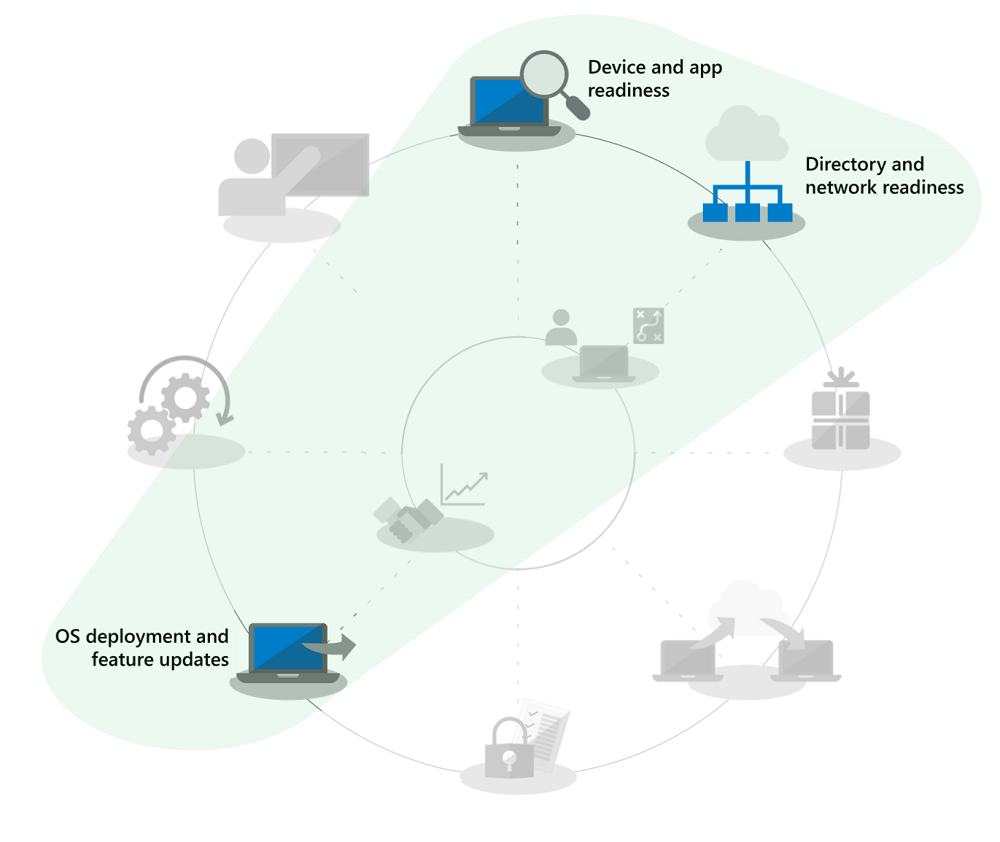
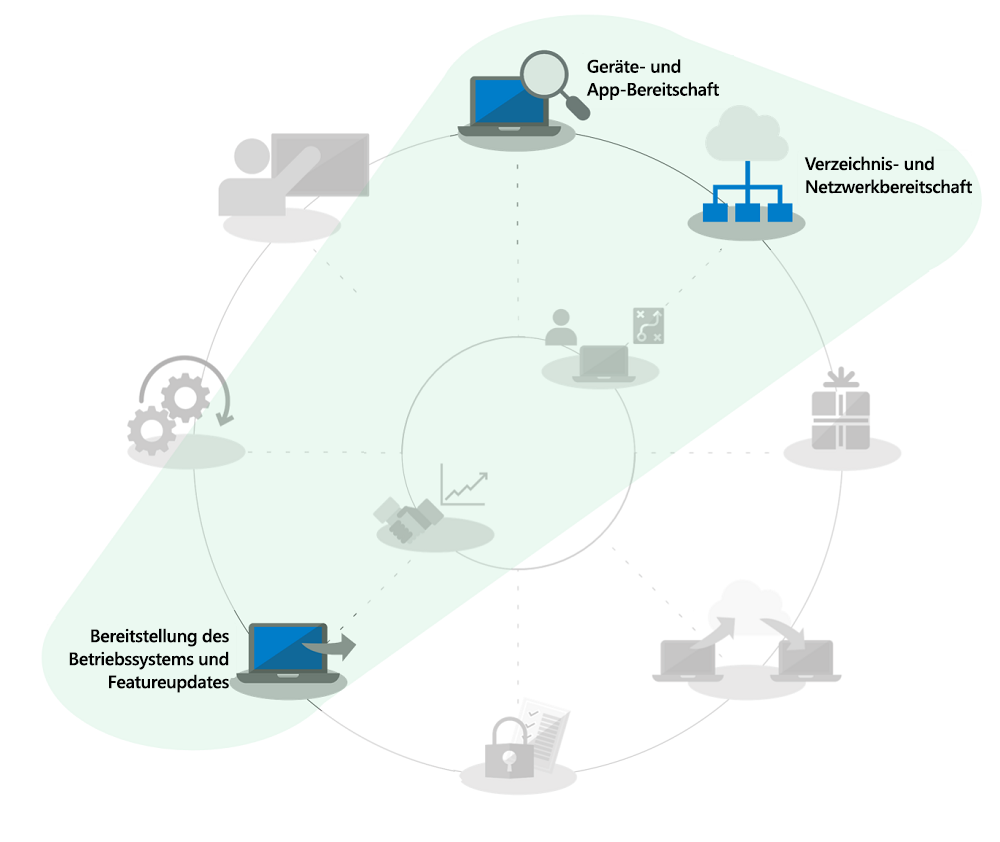
commit translated contents

Changed region(s): [[0.062, 0.7411, 0.248, 0.8337], [0.806, 0.1853, 0.992, 0.247], [0.589, 0.0618, 0.713, 0.1235]]

diff --git a/microsoft-365/enterprise/step-1-device-and-app-readiness.md b/microsoft-365/enterprise/step-1-device-and-app-readiness.md
@@ -13,12 +13,12 @@ ms.collection:
 - Strat_O365_Enterprise
 ms.custom: ''
 description: Informationen dazu, wie Sie die Geräte- und App-Bereitschaft in der Umgebung bewerten.
-ms.openlocfilehash: f45b4c4b38cd2108c706eb6465e9b5ba241e252f
-ms.sourcegitcommit: 7e806db3d44ec223754efe1e9613b2c7117c4788
+ms.openlocfilehash: eb619cf807c2bd4ad3644dbb26e72b62e30320c7
+ms.sourcegitcommit: 03828f954b9dddb265f867fa508178ec0d4a6aeb
 ms.translationtype: HT
 ms.contentlocale: de-DE
-ms.lasthandoff: 06/10/2019
-ms.locfileid: "34814636"
+ms.lasthandoff: 07/08/2019
+ms.locfileid: "35584551"
 ---
 # <a name="step-1-device-and-app-readiness"></a>Schritt 1: Geräte- und App-Bereitschaft
 
@@ -41,7 +41,7 @@ In der Vergangenheit war die Anwendungs- und Hardwarekompatibilität bei der Akt
 
 Nichtsdestotrotz ist das Überprüfen der Anwendungs- und Hardwarekompatibilität in Abhängigkeit von der Größe und dem Alter Ihrer Organisation mit großer Wahrscheinlichkeit nach wie vor ein wichtiger erster Schritt in unserem empfohlenen Bereitstellungsprozess, der aus acht Phasen besteht.
 
-In diesem Artikel führen wir Sie durch diese erste Phase – die Geräte- und App-Bereitschaft – mithilfe der Microsoft-Tools zur Bewertung der Bereitschaft, einschließlich des neuen Upgradebereitschaft-Tools von Windows Analytics, bei dem es sich um eine intelligente, cloudbasierte Lösung handelt, die mit Ihrer Windows-Lizenz verfügbar ist.
+In diesem Artikel führen wir Sie durch diese erste Phase – die Geräte- und App-Bereitschaft – mithilfe der Microsoft-Tools zur Bewertung der Bereitschaft, einschließlich des neuen Tools Upgradebereitschaft von Desktop Analytics, bei dem es sich um eine intelligente, cloudbasierte Lösung handelt, die mit Ihrer Windows-Lizenz verfügbar ist.
 
 ## <a name="windows-10-compatibility-scan"></a>Windows 10-Kompatibilitätsüberprüfung
 
@@ -53,13 +53,13 @@ Ein Beispiel für eine ScanOnly-Befehlszeile, die die Kompatibilitätsüberprüf
 
 Weitere Informationen zu ScanOnly und anderen Windows-Setupbefehlsoptionen finden Sie unter [Windows Setup-Befehlszeilenoptionen](https://aka.ms/setupswitches).
 
-## <a name="recommended-tool-windows-analytics-upgrade-readiness"></a>Empfohlenes Tool: Upgradebereitschaft von Windows Analytics
+## <a name="recommended-tool-desktop-analytics-upgrade-readiness"></a>Empfohlenes Tool: Upgradebereitschaft von Desktop Analytics
 
-Windows Analytics Upgrade Readiness bietet viele Vorteile gegenüber herkömmlichen Desktopverwaltungssystemen und ist unser empfohlenes Tool. Für Windows Analytics Upgrade Readiness müssen keine Agents bereitgestellt werden, und das Tool führt Sie durch die erforderlichen Schritte unter Verwendung der beim Upgraden von Hunderten von Millionen von Verbraucher-PCs gesammelten Informationen zur Anwendungs- und Treiberkompatibilität. Anhand dieser Informationen erhalten Sie eine detaillierte Bewertung, indem Kompatibilitätsprobleme identifiziert werden, die Ihr Upgrade blockieren könnten, unterstützt durch Links zu vorgeschlagenen Korrekturen, die Microsoft bekannt sind.
+Upgradebereitschaft von Desktop Analytics bietet viele Vorteile gegenüber herkömmlichen Desktopverwaltungssystemen und ist unser empfohlenes Tool. Für Windows Analytics Upgrade Readiness müssen keine Agents bereitgestellt werden, und das Tool führt Sie durch die erforderlichen Schritte unter Verwendung der beim Upgraden von Hunderten von Millionen von Verbraucher-PCs gesammelten Informationen zur Anwendungs- und Treiberkompatibilität. Anhand dieser Informationen erhalten Sie eine detaillierte Bewertung, indem Kompatibilitätsprobleme identifiziert werden, die Ihr Upgrade blockieren könnten, unterstützt durch Links zu vorgeschlagenen Korrekturen, die Microsoft bekannt sind.
 
-Um Window Analytics Upgrade Readiness einzurichten, müssen Sie zuerst ein Azure-Abonnement einrichten und einen Azure Log Analytics-Arbeitsbereich hinzufügen. Sobald der Windows Analytics Upgrade Readiness-Dienst ausgeführt wird, können Sie jedes mit dem Internet verbundene Windows 7 SP1- oder neuere Gerät über Gruppenrichtlinieneinstellungen registrieren – so einfach ist das. Es müssen keine Agents bereitgestellt werden, und der visuelle Workflow von Windows Analytics Upgrade Readiness führt Sie von der Pilotbereitstellung bis zur Produktionsbereitstellung. Wenn Sie möchten, können Sie Daten von Windows Analytics Upgrade Readiness in Softwarebereitstellungstools wie System Center Configuration Manager exportieren, um PCs direkt zu adressieren und Sammlungen zu erstellen, sobald sie für die Bereitstellung bereit sind.
+Um Window Analytics Upgrade Readiness einzurichten, müssen Sie zuerst ein Azure-Abonnement einrichten und einen Azure Log Analytics-Arbeitsbereich hinzufügen. Sobald der Dienst Upgradebereitschaft von Desktop Analytics ausgeführt wird, können Sie jedes mit dem Internet verbundene Windows 7 SP1- oder neuere Gerät über Gruppenrichtlinieneinstellungen registrieren – so einfach ist das. Es müssen keine Agents bereitgestellt werden, und der visuelle Workflow von Upgradebereitschaft von Desktop Analytics führt Sie von der Pilotbereitstellung bis zur Produktionsbereitstellung. Wenn Sie möchten, können Sie Daten von Upgradebereitschaft von Desktop Analytics in Softwarebereitstellungstools wie System Center Configuration Manager (Current Branch) exportieren, um PCs direkt zu adressieren und Sammlungen zu erstellen, sobald sie für die Bereitstellung bereit sind.
 
-Wenn Sie Windows Analytics derzeit nicht für Ihre Umgebung eingerichtet haben oder sich für eine Testversion registrieren möchten, wechseln Sie zur [Windows Analytics-Seite](http://www.aka.ms/windowsanalytics), und legen Sie los.
+Wenn Sie Windows Desktop derzeit nicht für Ihre Umgebung eingerichtet haben oder sich für eine Testversion registrieren möchten, wechseln Sie zur Desktop Analytics-Seite](http://www.aka.ms/desktopanalytics), und legen Sie los.
 
 ## <a name="device-and-app-readiness-process"></a>Prozess der Geräte- und App-Bereitschaft
 
@@ -67,7 +67,7 @@ Geräte- und App-Bereitschaft besteht aus vier Schritten: 1. Inventar, 2. Priori
 
 ### <a name="1-inventory"></a>1\. Bestandsaufnahme
 
-Der Windows Analytics Upgrade Readiness-Dienst verwendet einen Prozess ohne Agent zur Bestandsaufnahme der Computer, Anwendungen und Office-Add-Ins Ihrer gesamten Desktopumgebung.
+Der Dienst Upgradebereitschaft von Desktop Analytics verwendet einen Prozess ohne Agent zur Bestandsaufnahme der Computer und Anwendungen Ihrer gesamten Desktopumgebung.
 
 ![](media/step-1-device-and-app-readiness-media/step-1-device-and-app-readiness-media-3.png)
 
@@ -77,7 +77,7 @@ Er stellt außerdem Berichte zu häufig besuchten Internetwebsites, Apps und Int
 
 ### <a name="2-prioritize"></a>2\. Priorisieren
 
-Nach der Bestandsaufnahme können Sie die Upgradebereitschaft von Windows Analytics verwenden, um die am häufigsten verwendeten Apps und die am häufigsten in Ihrer Organisation verwendete Hardware zu identifizieren und zu priorisieren, und ermitteln, worauf Sie sich konzentrieren müssen, um so viele Computer wie möglich für die Bereitstellung vorzubereiten.
+Nach der Bestandsaufnahme können Sie Upgradebereitschaft von Desktop Analytics verwenden, um die am häufigsten verwendeten Apps und die am häufigsten in Ihrer Organisation verwendete Hardware zu identifizieren und zu priorisieren, und ermitteln, worauf Sie sich konzentrieren müssen, um so viele Computer wie möglich für die Bereitstellung vorzubereiten.
 
 ![](media/step-1-device-and-app-readiness-media/step-1-device-and-app-readiness-media-5.png)
 
@@ -85,9 +85,9 @@ Außerdem erhalten Sie Hilfestellung zur Beurteilung der Updates, die erforderli
 
 ### <a name="3-testing"></a>3\. Testen
 
-Sie werden feststellen, dass die meisten Anwendungen, Treiber und Add-Ins der Bestandsaufnahme in der vorliegenden Form funktionieren. Für Elemente, bei denen die Upgradebereitschaft von Windows Analytics Probleme feststellt, erhalten Sie bekannte Informationen, z. B., wo Versionsupdates zur Behebung von Kompatibilitätsproblemen zu finden sind. Anstatt Zeit und Ressourcen auf die Lösung komplexer Probleme in nicht kritischen, selten bereitgestellten Anwendungen und älteren Geräten aufzuwenden, können Sie stattdessen mit Benutzern arbeiten, um diese Elemente zurückzuziehen und zu ersetzen.
+Sie werden feststellen, dass die meisten Anwendungen, Treiber und Add-Ins der Bestandsaufnahme in der vorliegenden Form funktionieren. Für Elemente, bei denen Upgradebereitschaft von Desktop Analytics Probleme feststellt, erhalten Sie bekannte Informationen, z. B., wo Versionsupdates zur Behebung von Kompatibilitätsproblemen zu finden sind. Anstatt Zeit und Ressourcen auf die Lösung komplexer Probleme in nicht kritischen, selten bereitgestellten Anwendungen und älteren Geräten aufzuwenden, können Sie stattdessen mit Benutzern arbeiten, um diese Elemente zurückzuziehen und zu ersetzen.
 
-Sie können die Upgradebereitschaft von Windows Analytics verwenden, um auch browserbasierte Kompatibilitätsprobleme zu beurteilen und dabei Websites und Web-Apps identifizieren, auf die von Benutzern zugegriffen wird und die immer noch ActiveX-Steuerelemente, Browserhilfsobjekte, VBScript oder andere veraltete Technologien verwenden, die vom Microsoft Edge-Browser nicht unterstützt werden. Ihre Benutzer müssen weiterhin Internet Explorer 11 für diese Websites verwenden, und Sie können diese mithilfe des Enterprise Mode Site List Managers der [Siteliste für den Unternehmensmodus](https://docs.microsoft.com/de-DE/microsoft-edge/deploy/emie-to-improve-compatibility) hinzufügen.
+Sie können Upgradebereitschaft von Desktop Analytics verwenden, um auch browserbasierte Kompatibilitätsprobleme zu beurteilen und dabei Websites und Web-Apps identifizieren, auf die von Benutzern zugegriffen wird und die immer noch ActiveX-Steuerelemente, Browserhilfsobjekte, VBScript oder andere veraltete Technologien verwenden, die vom Microsoft Edge-Browser nicht unterstützt werden. Ihre Benutzer müssen weiterhin Internet Explorer 11 für diese Websites verwenden, und Sie können diese mithilfe des Enterprise Mode Site List Managers der [Siteliste für den Unternehmensmodus](https://docs.microsoft.com/de-DE/microsoft-edge/deploy/emie-to-improve-compatibility) hinzufügen.
 
 Um Ihnen den Umstieg auf Office 365 ProPlus zu erleichtern, können Sie außerdem das [Readiness Toolkit für Office](https://docs.microsoft.com/de-DE/deployoffice/use-the-readiness-toolkit-to-assess-application-compatibility-for-office-365-pro) zum Testen der Kompatibilität Ihrer Add-Ins und VBA-Makros (Microsoft Visual Basic für Applikationen) verwenden.
 
@@ -114,7 +114,7 @@ Ein weiteres Tool, das Ihnen bei der Kompatibilität von Windows 10 und Office 3
 
 ## <a name="continued-use-of-diagnostic-data-tools"></a>Fortgesetzte Verwendung von Diagnosedatentools
 
-Die Upgradebereitschaft von Windows Analytics ist nicht nur ein Tool, das Sie beim Umstieg auf Windows 10 und Office ProPlus 365 unterstützt. Wenn Sie Desktops haben, auf denen Windows 10 und Office 365 ausgeführt wird, können Sie diese verwenden, um die Bereitstellung sowie halbjährliche Featureupdates zu verwalten, damit Sie immer auf dem aktuellen Stand sind.
+Upgradebereitschaft von Desktop Analytics ist nicht nur ein Tool, das Sie beim Umstieg auf Windows 10 und Office ProPlus 365 unterstützt. Wenn Sie Desktops haben, auf denen Windows 10 und Office 365 ausgeführt wird, können Sie diese verwenden, um die Bereitstellung sowie halbjährliche Featureupdates zu verwalten, damit Sie immer auf dem aktuellen Stand sind.
 
 ## <a name="next-step"></a>Nächster Schritt 
 

diff --git a/microsoft-365/enterprise/step-7-windows-and-office-as-a-service.md b/microsoft-365/enterprise/step-7-windows-and-office-as-a-service.md
@@ -13,12 +13,12 @@ ms.collection:
 - Strat_O365_Enterprise
 ms.custom: ''
 description: Informationen zur Vorbereitung für Windows und Office als Dienst in Ihrer Umgebung.
-ms.openlocfilehash: 9cc550ca87c1c71ef4a01030ce93b6300fcc019d
-ms.sourcegitcommit: 7e806db3d44ec223754efe1e9613b2c7117c4788
+ms.openlocfilehash: 6f3f5faf4c45829cdb4d2f9ac48ef0c9988ec270
+ms.sourcegitcommit: 03828f954b9dddb265f867fa508178ec0d4a6aeb
 ms.translationtype: HT
 ms.contentlocale: de-DE
-ms.lasthandoff: 06/10/2019
-ms.locfileid: "34814596"
+ms.lasthandoff: 07/08/2019
+ms.locfileid: "35584561"
 ---
 # <a name="step-7-windows-and-office-servicing"></a>Schritt 7: Windows und Office als Dienst
 
@@ -37,7 +37,7 @@ ms.locfileid: "34814596"
 >Windows und Office als Dienst ist der siebte Schritt in dem von uns empfohlenen Rad für den Bereitstellungsprozess, der die Planungsaspekte der Vorbereitung auf halbjährliche Updates für Features behandelt. Wenn Sie den vollständigen Desktopbereitstellungsprozess sehen möchten, besuchen Sie das [Bereitstellungscenter für Desktop](https://aka.ms/HowToShift).
 >
 
-Sowohl in Windows 10 und als auch in Office 365 ProPlus werden neue Wartungsoptionen, Supportmodelle und Zeitpläne für Updates eingeführt. Anhand dieser Änderungen können Sie leichter über die neuesten Features auf dem Laufenden bleiben. Neben diesen Updates gibt es neue Konfigurationsoptionen, die Wartungspläne ermöglichen, die Ihren Anforderungen entsprechen. Erfahren Sie, wie Sie sich auf halbjährliche Kanalupdates mit neuen Features und Funktionen in Windows 10 und Office 365 ProPlus vorbereiten können, während Sie neue Features in System Center Configuration Manager Current Branch nutzen.
+Sowohl in Windows 10 und als auch in Office 365 ProPlus werden neue Wartungsoptionen, Supportmodelle und Zeitpläne für Updates eingeführt. Anhand dieser Änderungen können Sie leichter über die neuesten Features auf dem Laufenden bleiben. Neben diesen Updates gibt es neue Konfigurationsoptionen, die Wartungspläne ermöglichen, die Ihren Anforderungen entsprechen. Erfahren Sie, wie Sie sich auf halbjährliche Kanalupdates mit neuen Features und Funktionen in Windows 10 und Office 365 ProPlus vorbereiten können, während Sie neue Features in System Center Configuration Manager (Current Branch) nutzen.
 
 [Kunden beim Umstieg auf Windows 10 und Office 365 ProPlus unterstützen](https://www.microsoft.com/en-us/microsoft-365/blog/2018/09/06/helping-customers-shift-to-a-modern-desktop/)
 
@@ -79,7 +79,7 @@ Ein weiterer Punkt: Wenn Sie einen halbjährlichen Kanal für Office zur Bereits
 
 ### <a name="supporting-management-tools"></a>Unterstützen der Verwaltungstools
 
-Wir haben uns auch Gedanken darüber gemacht, wie wir die Bereitstellung von Updates für Sie reibungslos gestalten können. System Center Configuration Manager Current Branch wird häufig aktualisiert, um die Einführung dieser Updates für Windows und Office sowie andere neue Funktionen zu unterstützen.
+Wir haben uns auch Gedanken darüber gemacht, wie wir die Bereitstellung von Updates für Sie reibungslos gestalten können. System Center Configuration Manager (Current Branch) wird häufig aktualisiert, um die Einführung dieser Updates für Windows und Office sowie andere neue Funktionen zu unterstützen.
 
 
   [Bereitstellen von Windows 10-Updates mit System Center Configuration Manager](https://docs.microsoft.com/de-DE/windows/deployment/update/waas-manage-updates-configuration-manager)
@@ -125,7 +125,7 @@ Mithilfe einer Technologie mit dem Namen „Express Updates“ in Windows und Bi
 
 [Erläuterung von Windows 10-Qualitätsupdates und das Ende von Deltaaktualisierungen](https://techcommunity.microsoft.com/t5/Windows-IT-Pro-Blog/Windows-10-quality-updates-explained-amp-the-end-of-delta/ba-p/214426)
 
-Windows Update for Business und Windows Server Update Services haben Express-Updates über einen langen Zeitraum unterstützt, dieser Support wurde nun auf System Center Configuration Manager erweitert, sodass auch hier Express-Updates verwendet werden können.
+Windows Update for Business und Windows Server Update Services haben Express-Updates über einen langen Zeitraum unterstützt, dieser Support wurde nun auf System Center Configuration Manager (Current Branch) erweitert, sodass auch hier Express-Updates verwendet werden können.
 
 ![](media/step-7-windows-and-office-as-a-service-media/step-7-windows-and-office-as-a-service-media-3.png)
 
@@ -141,7 +141,7 @@ Da Sie nun die Überlegungen für monatliche Updates kennen, fahren wir mit den 
 
 Wie bei der Geräte- und App-Bereitschaft behandelt, sollten Sie zur Vorbereitung auf diese größeren Updates die gleichen Bereitschaftstools verwenden, die in Schritt 1 des Bereitstellungsprozesses eingerichtet wurden.
 
-Was die Tools angeht, so können Sie Richtlinieneinstellungen mit Windows Update for Business, die Softwareupdateverwaltung über System Center Configuration Manager, Windows Server Update Services (WSUS) oder von Microsoft Intune festgelegte Updaterichtlinien verwenden. Wenn Sie sich Sorgen um die Netzwerkbandbreite machen, sehen Sie sich „Schritt 2: Verzeichnis- und Netzwerkbereitschaft“ an, um mehr über Ihre Optionen zur Reduzierung des Netzwerkdatenverkehrs über die Übermittlungsoptimierung und andere Peer-to-Peer-Cachingtechnologien zu erfahren.
+Was die Tools angeht, so können Sie Richtlinieneinstellungen mit Windows Update for Business, die Softwareupdateverwaltung über System Center Configuration Manager (Current Branch), Windows Server Update Services (WSUS) oder von Microsoft Intune festgelegte Updaterichtlinien verwenden. Wenn Sie sich Sorgen um die Netzwerkbandbreite machen, sehen Sie sich „Schritt 2: Verzeichnis- und Netzwerkbereitschaft“ an, um mehr über Ihre Optionen zur Reduzierung des Netzwerkdatenverkehrs über die Übermittlungsoptimierung und andere Peer-to-Peer-Cachingtechnologien zu erfahren.
 
 ![](media/step-7-windows-and-office-as-a-service-media/step-7-windows-and-office-as-a-service-media-4.png)
 
@@ -153,7 +153,7 @@ Was die Tools angeht, so können Sie Richtlinieneinstellungen mit Windows Update
 
 #### <a name="upgrade-task-sequences"></a>Aufgabensequenzen bei Upgrades
 
-Das Installieren der größeren Featureupdates über standardäßige Routinen der Softwareupdateverwaltung ist eine unterstützte Option, aber viele Organisationen verwenden lieber eine Upgradeaufgabensequenz mit System Center Configuration Manager oder das Microsoft Deployment Toolkit.
+Das Installieren der größeren Featureupdates über standardmäßige Routinen der Softwareupdateverwaltung ist eine unterstützte Option, aber viele Organisationen verwenden lieber eine Upgradeaufgabensequenz mit System Center Configuration Manager (Current Branch) oder das Microsoft Deployment Toolkit.
 
 Mit einer Aufgabensequenz können Sie benutzerdefinierte Prüfungen oder Aufgaben VOR der Installation der Featureupdates erstellen und benutzerdefinierte Aufgaben ausführen, NACHDEM die Installation des Updates selbst abgeschlossen wurde – Aufgaben nach der Aktualisierung beinhalten möglicherweise das vorübergehende Aussetzen von Diensten, wenn dies während des Updates, der Treiberinstallation und des Treiberaustauschs, während Anwendungsupgrades oder Personalisierungseinstellungen für die Taskleiste und Windows 10-Start erforderlich ist.
 

diff --git a/microsoft-365/enterprise/step-6-os-deployment-and-feature-updates.md b/microsoft-365/enterprise/step-6-os-deployment-and-feature-updates.md
@@ -13,12 +13,12 @@ ms.collection:
 - Strat_O365_Enterprise
 ms.custom: ''
 description: Informationen zu den Optionen für die Bereitstellung des Betriebssystems und Featureupdates.
-ms.openlocfilehash: e26bbea4e0507c66102931eb102ce96d2620cfc7
-ms.sourcegitcommit: 7e806db3d44ec223754efe1e9613b2c7117c4788
+ms.openlocfilehash: 16af9a57623ffbdd73d97d44993c36ce57889eaf
+ms.sourcegitcommit: 03828f954b9dddb265f867fa508178ec0d4a6aeb
 ms.translationtype: HT
 ms.contentlocale: de-DE
-ms.lasthandoff: 06/10/2019
-ms.locfileid: "34814626"
+ms.lasthandoff: 07/08/2019
+ms.locfileid: "35584541"
 ---
 # <a name="step-6-os-deployment-and-feature-updates"></a>Schritt 6: Bereitstellung des Betriebssystems und Featureupdates
 
@@ -49,7 +49,7 @@ Die meisten Organisationen verwenden das Verfahren des PC-Imagings zum Konfiguri
 
 Wenn Sie den Weg der Imageerfassung wählen, sollten Sie so viele Aufgaben wie möglich automatisieren, damit Sie ein Image von höchster Qualität erhalten und einen wiederholbaren Prozess einrichten. Bei den meisten Bereitstellungen ist es ebenfalls empfehlenswert, vor dem Erfassen so wenige Anpassungen und vorinstallierte Apps in das Windows-Image aufzunehmen. Dies wir auch als „Thin Image“-Ansatz bezeichnet, durch den Bandbreite im Netzwerk gespart werden kann, indem die Anzahl der Apps im Image reduziert wird. Wenn Sie mit einem einfachen Image beginnen, können Sie die erforderlichen Apps, Sprachen und Konfigurationen in Layern hinzufügen, die dynamisch auf die Benutzer zugeschnitten werden können.
 
-Während des Erstellungs- und Erfassungsvorgangs verwenden Tools wie der System Center Configuration Manager und das Microsoft Deployment Toolkit das Systemvorbereitungstool (auch als „Sysprep“ bezeichnet) zusammen mit dem Befehl zum Generalisieren, um das Image vor dem Erfassen der Windows 10-Installation als Image wieder zu versiegeln.
+Während des Erstellungs- und Erfassungsvorgangs verwenden Tools wie der System Center Configuration Manager (Current Branch) und das Microsoft Deployment Toolkit das Systemvorbereitungstool (auch als „Sysprep“ bezeichnet) zusammen mit dem Befehl zum Generalisieren, um das Image vor dem Erfassen der Windows 10-Installation als Image wieder zu versiegeln.
 
 Das erfasste Image hat das Windows-Image-Format (WIM), wie jedes standardmäßige Windows-Installationsmedium. Sobald Sie Ihre eigene WIM-Datei erstellt haben, können Sie eine andere Aufgabensequenz als Teil der Betriebssystembereitstellung im System Center Configuration Manager oder Microsoft Deployment Toolkit verwenden, um mit der Bereitstellung zusammenhängenden Aufgaben durchzuführen, das Image anzuwenden und Aufgaben vor und nach der Anwendung des Windows-Images auszuführen.
 
@@ -76,7 +76,7 @@ Alle drei dieser Szenarien haben eines gemeinsam: Sie verwenden für die Ausfüh
 
 ### <a name="in-place-upgrade-using-task-sequence-automation"></a>Direktes Upgrade durch Aufgabensequenz-Automatisierung
 
-Zusätzlich zu diesen Bereitstellungstypen gibt es nun eine neue Option als eine System Center Configuration Manager-Aufgabensequenz in Windows 10: das direkte Upgrade mit der Upgrade-Aufgabensequenz.
+Zusätzlich zu diesen Bereitstellungstypen gibt es nun eine neue Option als eine Aufgabensequenz von System Center Configuration Manager (Current Branch) in Windows 10: das direkte Upgrade mit der Upgrade-Aufgabensequenz.
 
 Direkte Upgrades von einer vorherigen Version von Windows erfordern keine Aufgabensequenz. Dieser Ansatz wird jedoch empfohlen, wenn Sie die Bereitstellung auf Unternehmensebene durchführen. bei einem direkten Upgrade können Sie kein benutzerdefiniertes Image mit Anwendungen verwenden. Sie können jedoch die standardmäßige install.wim anhand von Offline-Servicing aktualisieren. Sie können beispielsweise sicherstellen, dass vor dem Upgrade die neuesten Windows-Updates angewendet wurden.
 
@@ -100,7 +100,7 @@ Beim Planen der Bereitstellung sehen Sie bestimmte Computer für die Bare-Metal-
 
 ![](media/step-6-os-deployment-and-feature-updates-media/step-6-os-deployment-and-feature-updates-media-4.png)
 
-### <a name="recommended-tools-system-center-configuration-manager-and-the-microsoft-deployment-toolkit"></a>Empfohlenen Tools: System Center Configuration Manager und das Microsoft Deployment Toolkit
+### <a name="recommended-tools-system-center-configuration-manager-current-branch-and-the-microsoft-deployment-toolkit"></a>Empfohlenen Tools: System Center Configuration Manager (Current Branch) und das Microsoft Deployment Toolkit
 
 Unabhängig vom gewählten Bereitstellungstyp müssen Sie sicherstellen, dass er so weit wie möglich automatisiert ist, damit eine gewisse Vorhersagbarkeit und Wiederholbarkeit gegeben ist. Microsoft bietet zwei Lösungen zum Automatisieren der Betriebssystembereitstellung mit automatisieren Aufgabensequenzen an:
 
@@ -126,7 +126,7 @@ Wenn sich ein Benutzer dann während des Setups mit seinen Azure AD-Anmeldedaten
 
 ## <a name="windows-update-for-business-for-feature-updates"></a>Windows Update for Business für Featureupdates
 
-Windows Update for Business ist ein kostenloser Dienst, mit dem IT-Experten Windows 10-Geräte immer auf dem neuesten Stand halten können, indem Sie die Geräte direkt an den Windows Update-Dienst anschließen. Windows Update for Business kann über Gruppenrichtlinien oder MDM-Lösungen wie Microsoft Intune konfiguriert werden und ermöglicht es IT-Experten, [Bereitstellungsringe](https://docs.microsoft.com/de-DE/windows/deployment/update/waas-deployment-rings-windows-10-updates) zu erstellen, um neue Builds zu überprüfen. Es ist in vorhandene Verwaltungstools wie Windows Server Update Services (WSUS), System Center Configuration Manager (aktueller Zweig) und Microsoft Intune integriert. Darüber hinaus unterstützt Windows Update for Business Peer-to-Peer-Übermittlung, um die Bandbreiteneffizienz zu optimieren und die Überlastung des Netzwerks zu reduzieren.
+Windows Update for Business ist ein kostenloser Dienst, mit dem IT-Experten Windows 10-Geräte immer auf dem neuesten Stand halten können, indem Sie die Geräte direkt an den Windows Update-Dienst anschließen. Windows Update for Business kann über Gruppenrichtlinien oder MDM-Lösungen wie Microsoft Intune konfiguriert werden und ermöglicht es IT-Experten, [Bereitstellungsringe](https://docs.microsoft.com/de-DE/windows/deployment/update/waas-deployment-rings-windows-10-updates) zu erstellen, um neue Builds zu überprüfen. Es ist in vorhandene Verwaltungstools wie Windows Server Update Services (WSUS), System Center Configuration Manager (Current Branch) und Microsoft Intune integriert. Darüber hinaus unterstützt Windows Update for Business Peer-to-Peer-Übermittlung, um die Bandbreiteneffizienz zu optimieren und die Überlastung des Netzwerks zu reduzieren.
 
 Ausführlichere Informationen zu Windows Update for Business finden Sie in der folgenden Dokumentation:
 

diff --git a/microsoft-365/enterprise/step-2-directory-and-network-readiness.md b/microsoft-365/enterprise/step-2-directory-and-network-readiness.md
@@ -13,12 +13,12 @@ ms.collection:
 - Strat_O365_Enterprise
 ms.custom: ''
 description: Informationen dazu, wie Sie die Verzeichnis- und Netzwerkbereitschaft in der Umgebung bewerten.
-ms.openlocfilehash: d9ab05c9ff7d0b926f147ee4f924d95f01ccffd1
-ms.sourcegitcommit: 7e806db3d44ec223754efe1e9613b2c7117c4788
+ms.openlocfilehash: 8070d08ade5d4b29327ab88bdc36e5f2182c0016
+ms.sourcegitcommit: 03828f954b9dddb265f867fa508178ec0d4a6aeb
 ms.translationtype: HT
 ms.contentlocale: de-DE
-ms.lasthandoff: 06/10/2019
-ms.locfileid: "34814616"
+ms.lasthandoff: 07/08/2019
+ms.locfileid: "35584571"
 ---
 # <a name="step-2-directory-and-network-readiness"></a>Schritt 2: Verzeichnis- und Netzwerkbereitschaft
 
@@ -80,7 +80,7 @@ Eine Möglichkeit, um die Auswirkungen des auf die Bereitstellung bezogenen Date
 
   [Informationen zu BITS](https://docs.microsoft.com/de-DE/windows/desktop/bits/about-bits)
 
-Wenn Sie System Center Configuration Manager verwenden, können Sie auch BITS-fähige Verteilungspunkte konfigurieren oder Multicast mit WDS aktivieren.
+Wenn Sie System Center Configuration Manager (Current Branch) verwenden, können Sie auch BITS-fähige Verteilungspunkte konfigurieren oder Multicast mit WDS aktivieren.
 
 Die Drosselung von bestimmtem Datenverkehr bedeutet, dass der normale Netzwerkdatenverkehr weniger durch PCs, die Updates und Anwendungen herunterladen, beeinträchtigt wird. Indem ein bestimmter Prozentsatz der Bandbreite für diese Vorgänge reserviert wird, wird sichergestellt, dass die Produktivität durch die Windows- oder Office-Bereitstellung nicht beeinträchtigt wird, und Prozesse werden weiterhin nach Bedarf ausgeführt. Dies kann jedoch dazu führen, dass die Ausfallzeiten bei der Bereitstellung länger werden, wenn der Benutzerzugriff während der Durchführung einer Bereitstellung auf dem PC gesperrt ist.
 
@@ -90,7 +90,7 @@ Glücklicherweise gibt es neue Tools, die es Ihnen erleichtern, die Auswirkungen
 
 ## <a name="scavenging-bandwidth"></a>**Aufräumen der Bandbreite**
 
-LEDBAT (Low Extra Delay Background Transport), das in Windows Server 2019 and System Center Configuration Manager Version 1806 unterstützt wird, ist auf die Optimierung des Netzwerkverkehrs für Windows-Clients ausgelegt.
+LEDBAT (Low Extra Delay Background Transport), das in Windows Server 2019 and System Center Configuration Manager (Current Branch) unterstützt wird, ist auf die Optimierung des Netzwerkverkehrs für Windows-Clients ausgelegt.
 
 [Top 10 Netzwerkfeatures in Windows Server 2019: \#9 LEDBAT – Latency Optimized Background Transport](https://blogs.technet.microsoft.com/networking/2018/07/25/ledbat/)
 
@@ -110,7 +110,7 @@ Hinweis: BranchCache and Peercache ergänzen sich und können zusammen in dersel
 
 [Branch-Cache und Peer-Cache](https://blogs.technet.microsoft.com/swisspfe/2018/01/25/branch-cache-vs-peer-cache/)
 
-**Übermittlungsoptimierung** Die Übermittlungsoptimierung ist eine weitere Peer-zu-Peer Technologie für die Zwischenspeicherung, die auf dem Netzwerk basierende Steuerungen für Bereitstellungen bietet. Verwenden Sie die Windows 10-Übermittlungsoptimierung, um integrierte UWP-Apps zu aktualisieren und um Anwendungen aus dem Microsoft Store sowie Softwareupdates mit Express-Updates zu installieren. Sie ist seit den frühen Versionen von Windows 10 verfügbar, wurde jedoch erst kürzlich mit System Center Configuration Manager integriert. Seit Windows 10 Version 1803 bedeuten neue Konfigurationsoptionen, dass Sie jetzt unabhängig voneinander Bandbreitengrenzwerte für die Aktualisierung im Hintergrund und Vordergrundaufgaben wie das Installieren einer App aus dem Store festlegen können. Die Windows-Übermittlungsoptimierung unterstützt nun auch Office 365 ProPlus bei Clientupdates, verfügbar in allen unterstützten Office 365-Clientupdatekanälen. Unterstützung für Windows-Übermittlungsoptimierung bei der Erstinstallation von Office 365-Clients wird in Kürze folgen.  
+**Übermittlungsoptimierung** Die Übermittlungsoptimierung ist eine weitere Peer-zu-Peer Technologie für die Zwischenspeicherung, die auf dem Netzwerk basierende Steuerungen für Bereitstellungen bietet. Verwenden Sie die Windows 10-Übermittlungsoptimierung, um integrierte UWP-Apps zu aktualisieren und um Anwendungen aus dem Microsoft Store sowie Softwareupdates mit Express-Updates zu installieren. Sie ist seit den frühen Versionen von Windows 10 verfügbar, wurde jedoch erst kürzlich mit System Center Configuration Manager (Current Branch) integriert. Seit Windows 10 Version 1803 bedeuten neue Konfigurationsoptionen, dass Sie jetzt unabhängig voneinander Bandbreitengrenzwerte für die Aktualisierung im Hintergrund und Vordergrundaufgaben wie das Installieren einer App aus dem Store festlegen können. Die Windows-Übermittlungsoptimierung unterstützt nun auch Office 365 ProPlus bei Clientupdates, verfügbar in allen unterstützten Office 365-Clientupdatekanälen. Unterstützung für Windows-Übermittlungsoptimierung bei der Erstinstallation von Office 365-Clients wird in Kürze folgen.  
 
 ![](media/step-2-directory-and-network-readiness-media/step-2-directory-and-network-readiness-media-5.png)
 

diff --git a/microsoft-365/enterprise/getting-started.md b/microsoft-365/enterprise/getting-started.md
@@ -13,12 +13,12 @@ ms.collection:
 - Strat_O365_Enterprise
 ms.custom: ''
 description: Einführung in den Desktopbereitstellungsprozess.
-ms.openlocfilehash: b9264f8d9232bf1b88372694d43e2d2c70c8cb70
-ms.sourcegitcommit: 7e806db3d44ec223754efe1e9613b2c7117c4788
+ms.openlocfilehash: 60389149e286bca8e27f50dabee8aaf03f52c90c
+ms.sourcegitcommit: 03828f954b9dddb265f867fa508178ec0d4a6aeb
 ms.translationtype: HT
 ms.contentlocale: de-DE
-ms.lasthandoff: 06/10/2019
-ms.locfileid: "34814656"
+ms.lasthandoff: 07/08/2019
+ms.locfileid: "35584521"
 ---
 # <a name="getting-started---desktop-deployment"></a>Erste Schritte – Desktopbereitstellung
 
@@ -86,7 +86,7 @@ Klick-und-Los unterscheidet sich stark von den MSI-basierten Paketen in der Verg
 
 Bevor Sie beginnen, sollten Sie einen allgemeinen Plan erstellen und die erforderlichen Sponsoren ins Boot holen. Unser Bereitstellungsprozess beschreibt wichtige Schritte, anhand der Sie die wichtigsten Teammitglieder und Ressourcen in den folgenden Bereitstellungsbereichen verwalten können.
 
-**[Schritt 1: Geräte- und App-Bereitschaft](https://aka.ms/mdd1)** Für eine erfolgreiche Bereitstellung müssen Sie zunächst wissen, was Sie haben. Das bedeutet, dass eine Bestandsaufnahme Ihrer Geräte und Apps und eine Überprüfung der Kompatibilität erforderlich ist. Zur Unterstützung können Sie dabei die Tools nutzen, die in unserem cloudbasierten Dienst, Windows Analytics, verfügbar sind. Mit Windows Analytics können Sie auf Kompatibilitätsintelligenz und Diagnosedaten von Hunderten von Millionen Computern zugreifen, um die auf Ihrem Gerät ausgeführten Apps und Treiber zu bewerten, damit Sie die Bereitschaft Ihres Desktops sicherstellen können. Sie können aus Windows Analytics eine Liste der Computer, die für die Bereitstellung bereit sind, in System Center Configuration Manager exportieren, wenn Sie es verwenden, sodass Sie datengesteuerte Sammlungen der entsprechenden Computer erstellen können, sobald diese bereit sind.
+**[Schritt 1: Geräte- und App-Bereitschaft](https://aka.ms/mdd1)** Für eine erfolgreiche Bereitstellung müssen Sie zunächst wissen, was Sie haben. Das bedeutet, dass eine Bestandsaufnahme Ihrer Geräte und Apps und eine Überprüfung der Kompatibilität erforderlich ist. Zur Unterstützung können Sie dabei die Tools nutzen, die in unserem cloudbasierten Dienst, Desktop Analytics, verfügbar sind. Mit Desktop Analytics können Sie auf Kompatibilitätsintelligenz und Diagnosedaten von Hunderten von Millionen Computern zugreifen, um die auf Ihrem Gerät ausgeführten Apps und Treiber zu bewerten, damit Sie die Bereitschaft Ihres Desktops sicherstellen können. Sie können aus Desktop Analytics eine Liste der Computer, die für die Bereitstellung bereit sind, in System Center Configuration Manager exportieren, wenn Sie es verwenden, sodass Sie datengesteuerte Sammlungen der entsprechenden Computer erstellen können, sobald diese bereit sind.
 
 
   [Erste Schritte mit der Upgradebereitschaft](https://docs.microsoft.com/de-DE/windows/deployment/upgrade/upgrade-readiness-get-started)

diff --git a/microsoft-365/enterprise/modern-desktop-deployment-and-management-lab.md b/microsoft-365/enterprise/modern-desktop-deployment-and-management-lab.md
@@ -13,18 +13,18 @@ ms.collection:
 - Strat_O365_Enterprise
 ms.custom: ''
 description: Erfahren Sie mehr über das Deployment Lab Kit für Windows und Office und wo Sie darauf zugreifen.
-ms.openlocfilehash: c056aba81edc079f0577dea8d4ef535d7e6cc32a
-ms.sourcegitcommit: a84cf473bc61a7bb1cfca221cf435e0a418305b2
+ms.openlocfilehash: ba1cd7e88766b6393bafcbd7381ceeb98f030d51
+ms.sourcegitcommit: 03828f954b9dddb265f867fa508178ec0d4a6aeb
 ms.translationtype: HT
 ms.contentlocale: de-DE
-ms.lasthandoff: 07/05/2019
-ms.locfileid: "35576505"
+ms.lasthandoff: 07/08/2019
+ms.locfileid: "35584531"
 ---
 # <a name="windows-and-office-deployment-lab-kit"></a>Deployment Lab Kit für Windows und Office
 
 Diese herunterladbaren praktischen Übungen legen den Fokus auf die Windows 10- und Office 365-Bereitstellung sowie die verknüpften Konfigurations- und Verwaltungsaspekte nach der Bereitstellung. Die Schulung wird dringend für Organisationen empfohlen, die sich auf das Windows 7-End of Life vorbereiten, ist jedoch auch sinnvoll, wenn Sie aktuell Windows 10 und Office 365 Plus oder Office 2019 nutzen. Enthalten sind Leitfäden für Windows 10, Office 365 ProPlus, Enterprise Mobility + Security und verknüpfte Produkte und Dienste.
 
-Diese Übungen unterstützen Sie beim Planen, Testen und Validieren von Bereitstellung und Verwaltung von Desktops mit Windows 10 Enterprise und Office 365 ProPlus. Die Übungen behandeln die Schritte und Tools des Portfolios für die Desktop-Bereitstellung, das System Center Configuration Manager, Windows Analytics, Office Customization Tool, OneDrive, Windows Autopilot und mehr umfasst.
+Diese Übungen unterstützen Sie beim Planen, Testen und Validieren von Bereitstellung und Verwaltung von Desktops mit Windows 10 Enterprise und Office 365 ProPlus. Die Übungen behandeln die Schritte und Tools des Portfolios für die Desktop-Bereitstellung, das System Center Configuration Manager, Desktop Analytics, Office Customization Tool, OneDrive, Windows Autopilot und mehr umfasst.
 
 Im Rahmen der [Desktop-Bereitstellung](http://www.aka.ms/howtoshift) für Windows 10 und Office 365 ProPlus ist die Erstellung einer Sandbox- oder isolierten Übungsumgebung der empfohlene Startpunkt bei der Beschäftigung mit Bereitstellungstool-Updates und Tests der bereitstellungsbezogenen Automatisierung.
 
@@ -60,7 +60,7 @@ Detaillierte Übungsleitfäden führen Sie durch mehrere Bereitstellungs- und Ve
 
 ### <a name="device-and-app-readiness"></a>**Geräte- und App-Bereitschaft**
 
-  - Windows Analytics
+  - Desktop Analytics
   - Enterprise Mode und Enterprise Mode Site List für Internet Explorer
 
 ### <a name="directory-and-network-readiness"></a>**Verzeichnis- und Netzwerkbereitschaft**
